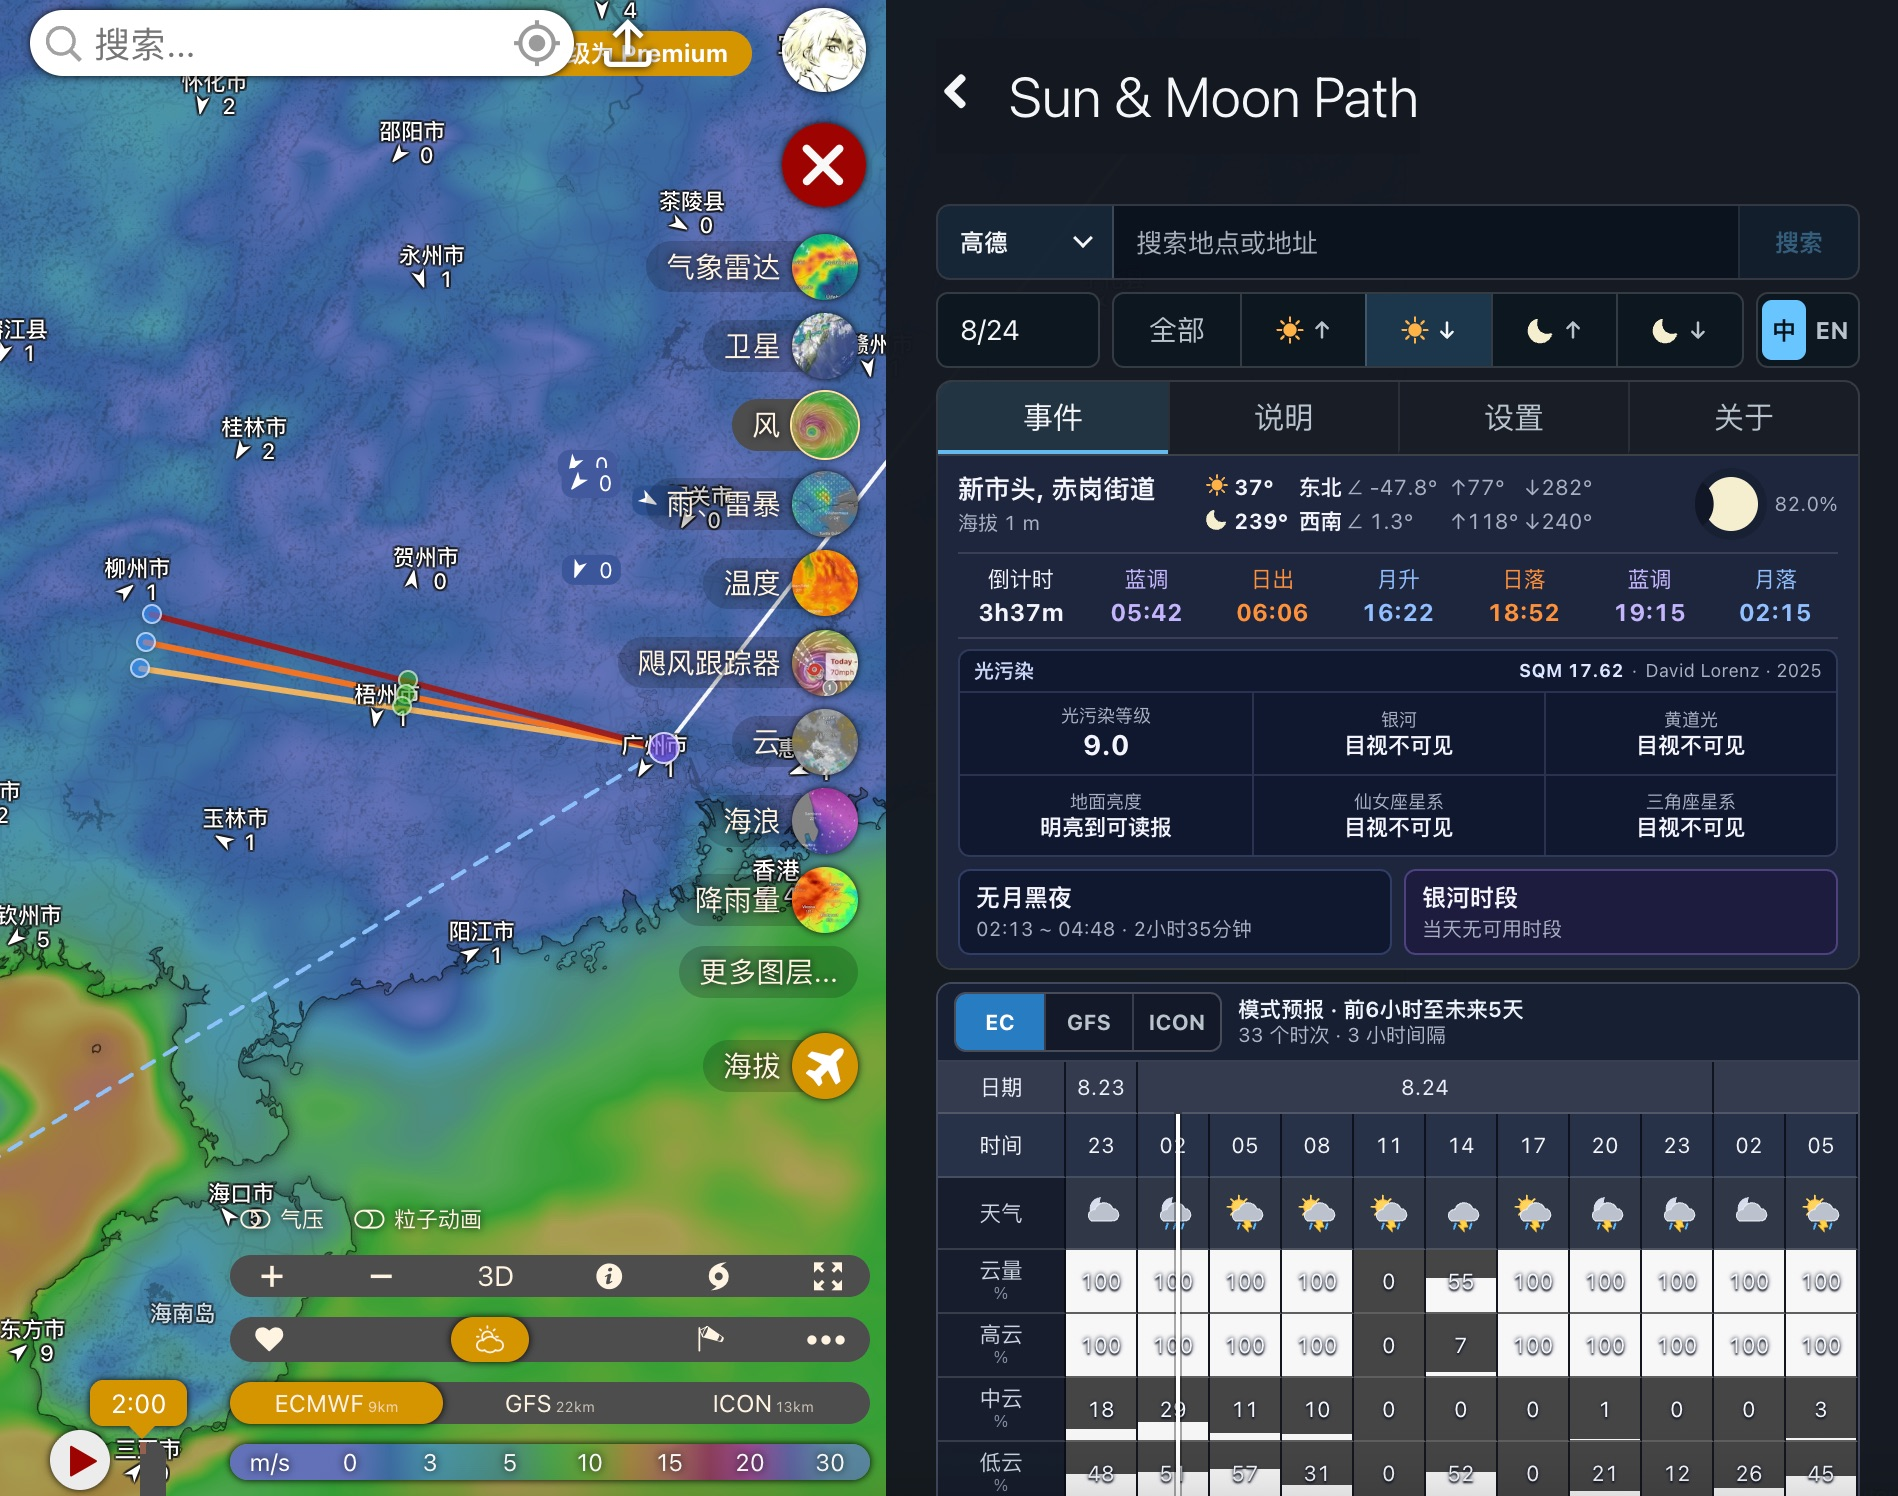
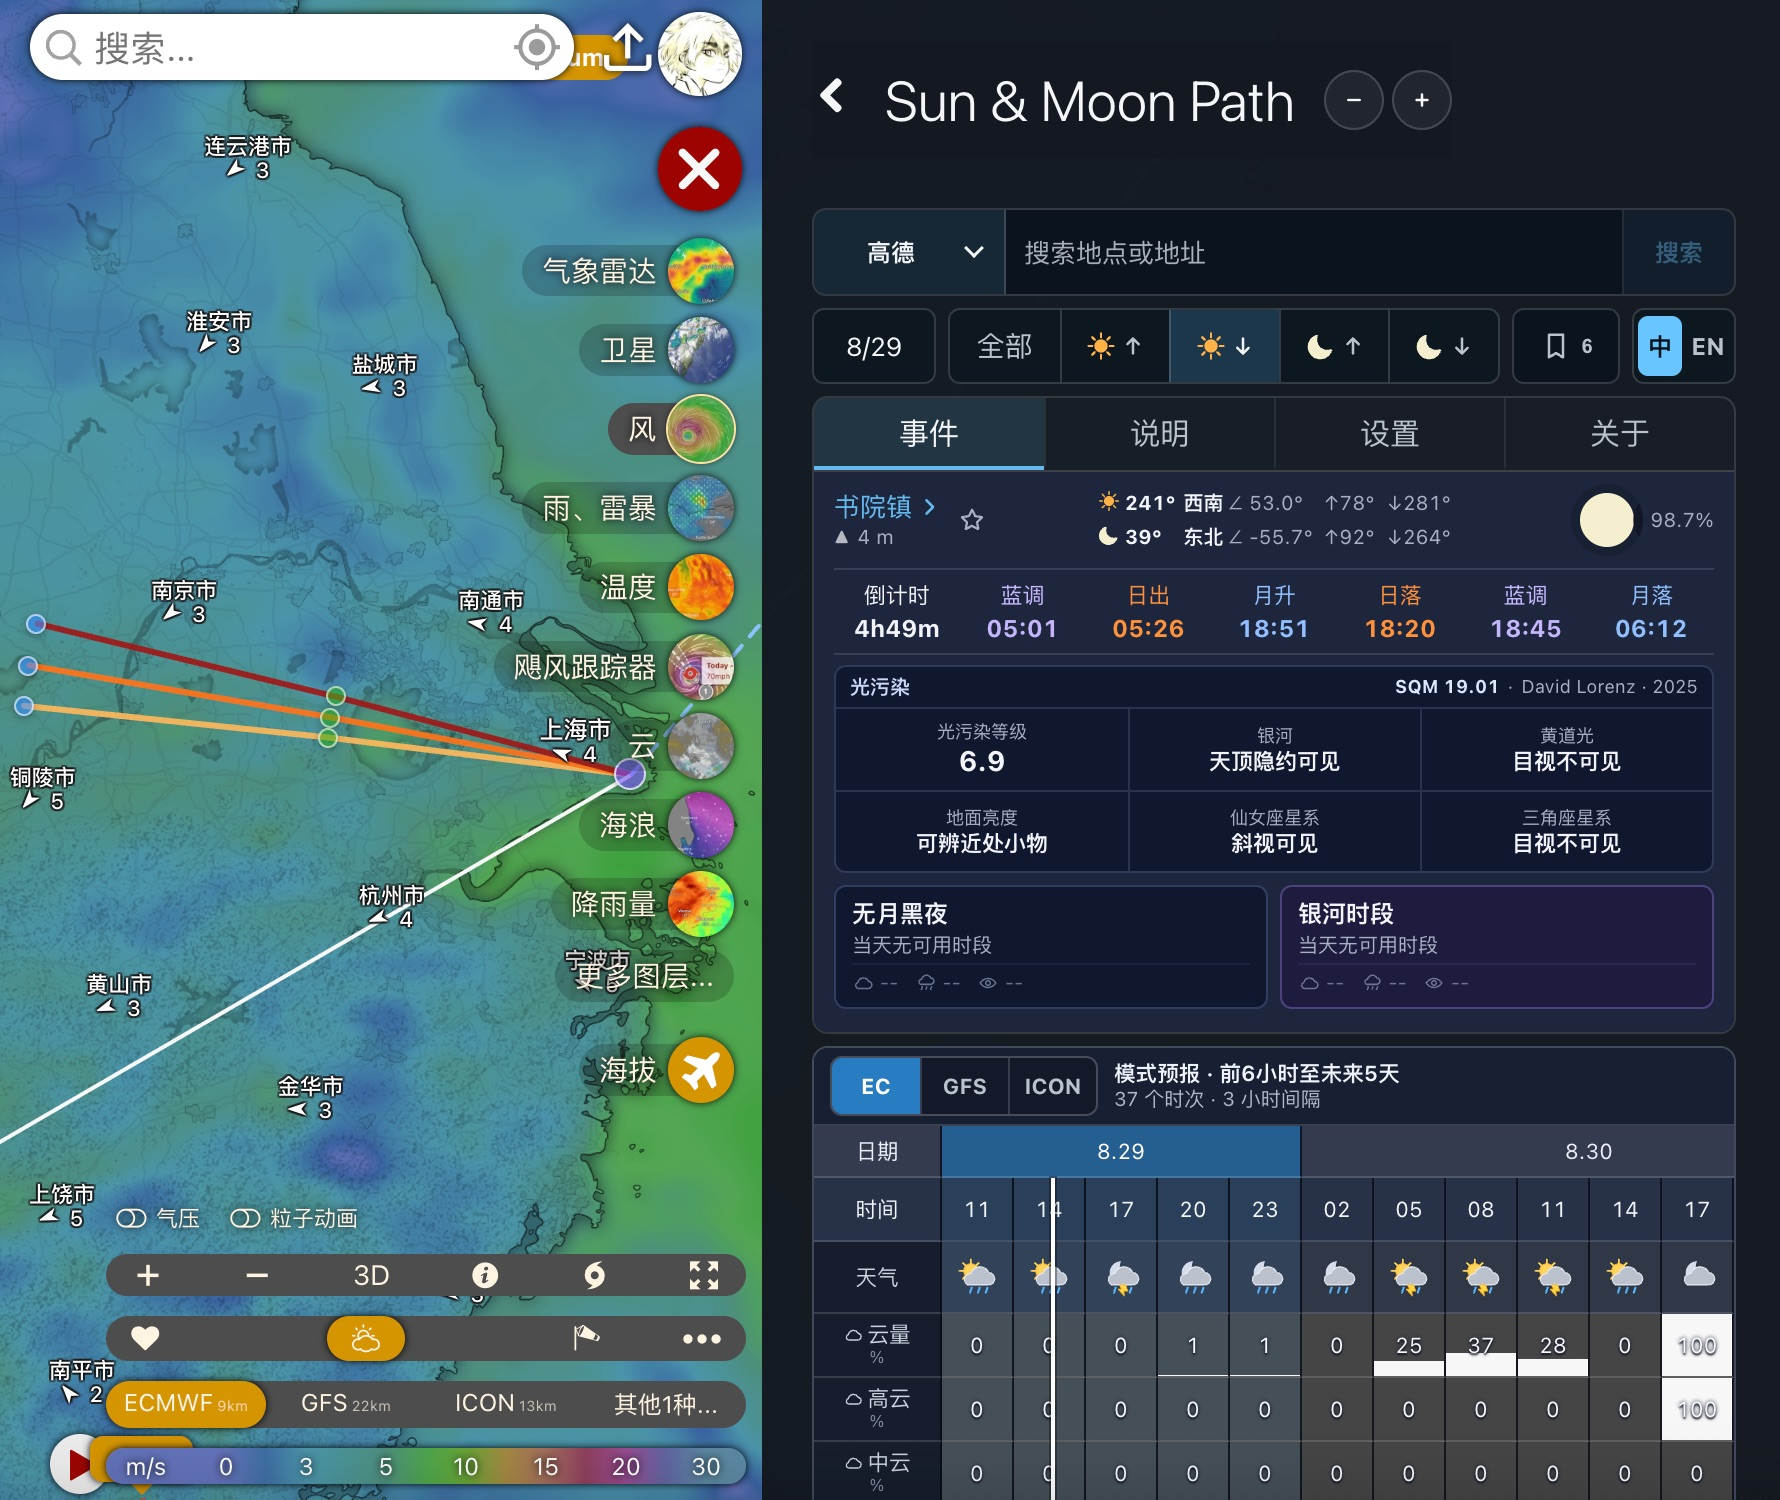
release: 发布 0.8.0 正式版

diff --git a/src/pluginConfig.ts b/src/pluginConfig.ts
@@ -2,7 +2,7 @@ import type { ExternalPluginConfig } from '@windy/interfaces.d';
 
 const config: ExternalPluginConfig = {
     name: 'windy-plugin-sun-moon-path',
-    version: '0.7.0',
+    version: '0.8.0',
     icon: '☀',
     title: 'Sun & Moon Path',
     description: 'Show sunrise, sunset, moonrise, moonset and live celestial directions on Windy.',

diff --git a/README_EN.md b/README_EN.md
@@ -21,6 +21,10 @@ relative to a point on the Windy map.
   moonset.
 - Supports date switching, map single-click location updates, and Windy context
   menu opening.
+- Reuses Windy favorites to save or remove the current observing location, search
+  saved names, and sort by distance, recency, elevation, or light pollution.
+- Compares 2–5 favorite locations for the same date across astronomy events,
+  observing windows, weather, elevation, and light pollution, with EC/GFS/ICON switching.
 - Searches domestic places and addresses in the Chinese UI with the user's own Amap,
   Baidu, or Tencent Maps API Key and switches providers from the unified search menu.
 - Locates exact coordinates in both languages by selecting WGS84 or GCJ-02 and entering
@@ -30,6 +34,8 @@ relative to a point on the Windy map.
 - Converts Amap/Tencent GCJ-02 or Baidu BD-09 coordinates to the WGS84 coordinates
   used by Windy before moving the map.
 - Handles unavailable polar-day, polar-night, and missing moon event cases.
+- Presents moonless-night and Milky Way observing windows with weather, moonlight,
+  and target-visibility evidence, while keeping the panel stable during location/date loading.
 - Shows SQM, estimated equivalent Bortle level, and ideal-condition observing
   references from the David Lorenz 2025 light-pollution atlas.
 - Adds a location forecast table spanning the available past 6 hours through the
@@ -74,17 +80,17 @@ relative to a point on the Windy map.
 
 ## Plugin URL
 
-Current formal version: `0.7.0`
+Current formal version: `0.8.0`
 
 Current loadable plugin bundle:
 
-[https://windy-plugins.com/17629746/windy-plugin-sun-moon-path/0.7.0/plugin.min.js](https://windy-plugins.com/17629746/windy-plugin-sun-moon-path/0.7.0/plugin.min.js)
+[https://windy-plugins.com/17629746/windy-plugin-sun-moon-path/0.8.0/plugin.min.js](https://windy-plugins.com/17629746/windy-plugin-sun-moon-path/0.8.0/plugin.min.js)
 
 Project links:
 
 - GitHub repository: [bytepoem/windy-plugin-sun-moon-path](https://github.com/bytepoem/windy-plugin-sun-moon-path)
 - Issues: [report a problem or suggestion](https://github.com/bytepoem/windy-plugin-sun-moon-path/issues)
-- Formal release: [0.7.0](https://github.com/bytepoem/windy-plugin-sun-moon-path/releases/tag/0.7.0)
+- Formal release: [0.8.0](https://github.com/bytepoem/windy-plugin-sun-moon-path/releases/tag/0.8.0)
 - Author: [bytepoem](https://github.com/bytepoem)
 
 ## Development
@@ -143,13 +149,16 @@ After the plugin is open:
 5. Choose **All**, **Sunrise**, **Sunset**, **Moonrise**, or **Moonset**.
 6. Check the map direction lines and the event time, azimuth, and compass
    direction in the panel.
-7. You can also click the map to recalculate directions for another location.
-8. On desktop, switch between **Events**, **Guide**, **Settings**, and **About**
+7. Use the favorite control beside the place name to save the current observing point.
+   Open favorites to search, sort, switch locations, or compare 2–5 places for the same date.
+8. You can also click the map to recalculate directions for another location, and use
+   the `−` / `+` controls in the panel header to adjust the map zoom.
+9. On desktop, switch between **Events**, **Guide**, **Settings**, and **About**
    while using the always-visible forecast below. On mobile, use the panel controls
    to collapse into direction-line mode, restore the compact window, or enter
    fullscreen. Direction-line mode keeps search, the primary controls, and two compact
    astronomy rows; enable **Hide location search** in **Settings** when search is not needed.
-9. In the forecast table, select **EC**, **GFS**, or **ICON** and scroll from the available past
+10. In the forecast table, select **EC**, **GFS**, or **ICON** and scroll from the available past
    6 hours through the next 5 days.
 
 Rows marked **OM** are provided by [Open-Meteo](https://open-meteo.com/). The AOD
